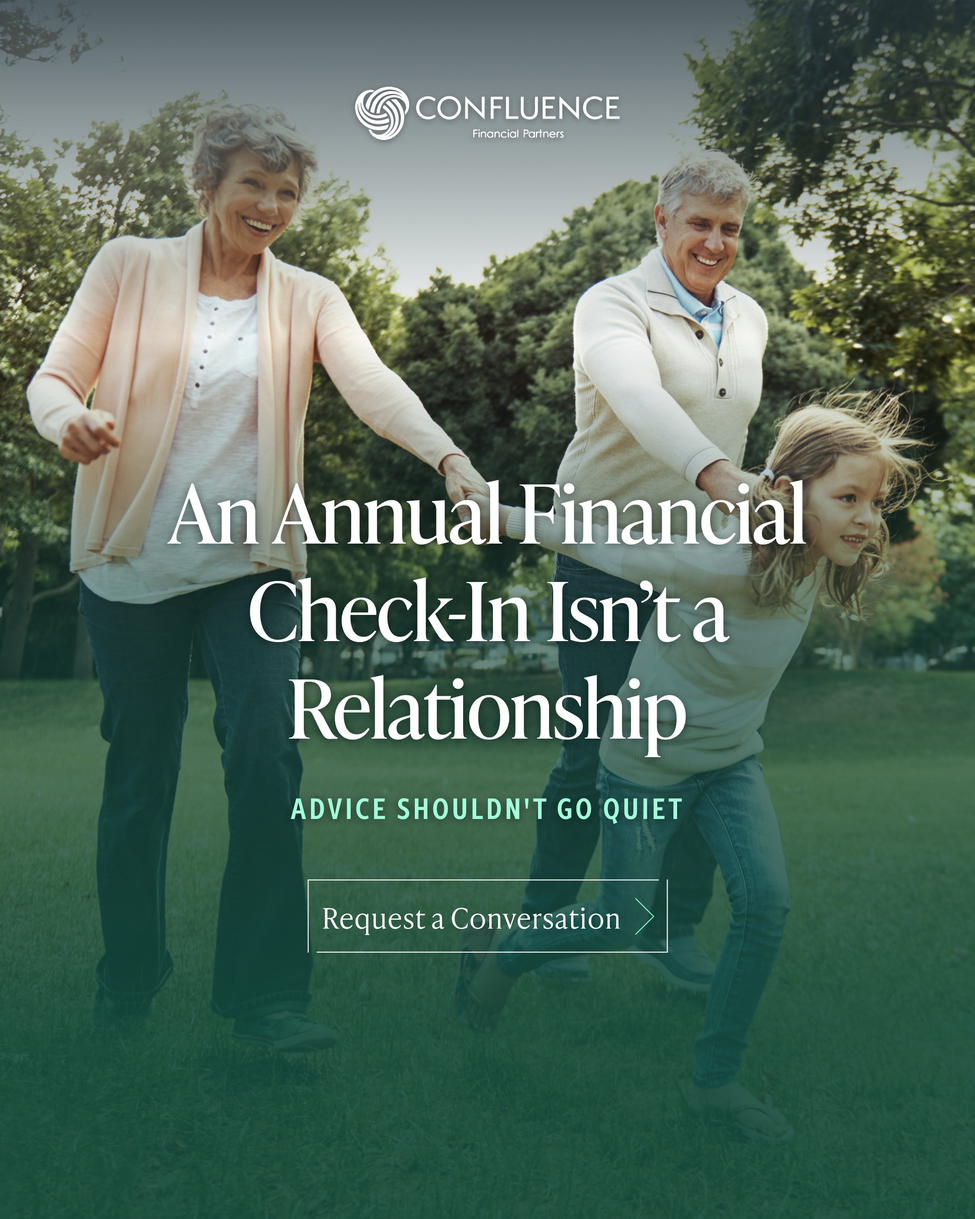
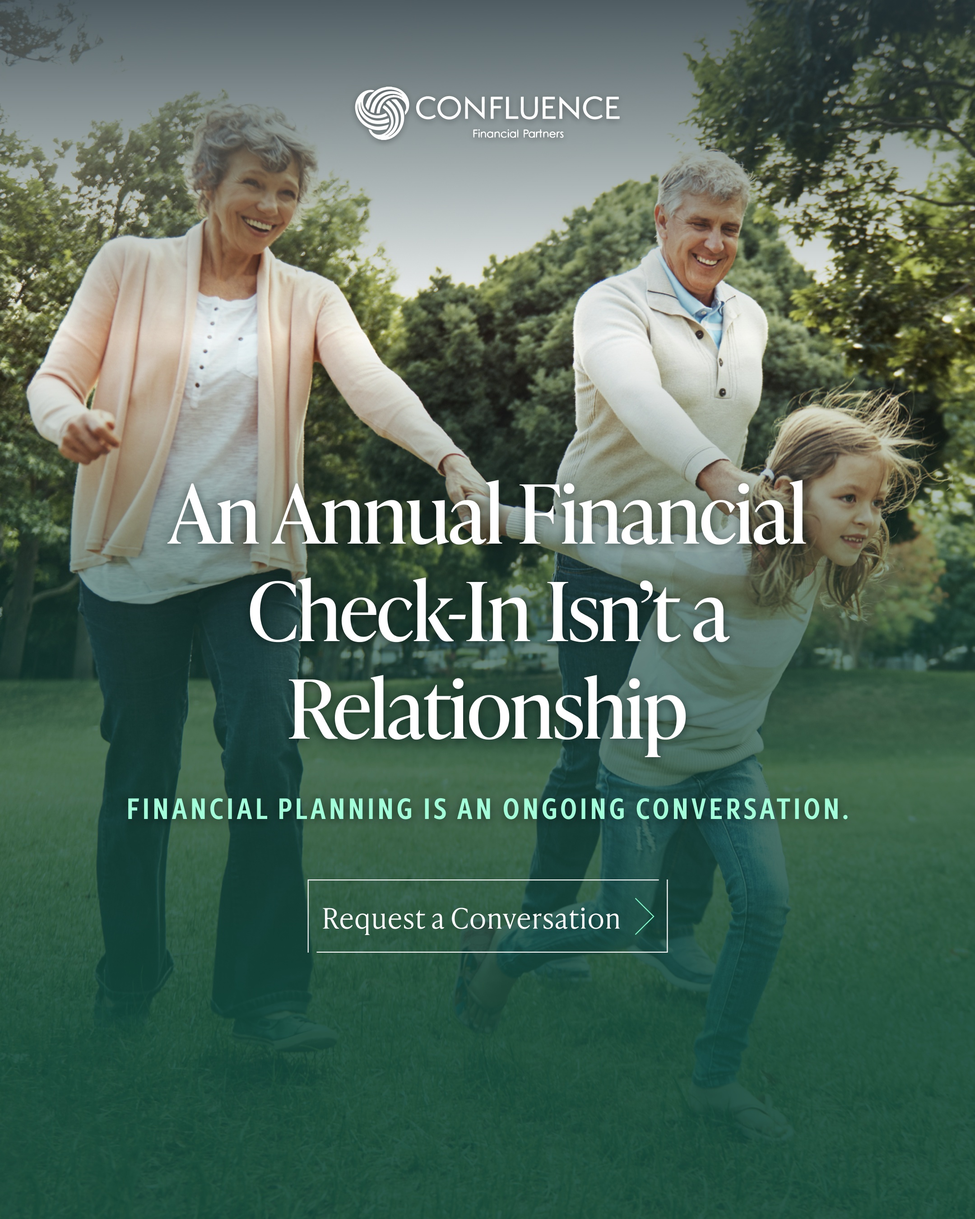
CFP vEdge: Ad 7 (Communication) eyebrow -> 'Financial planning is an ongoing conversation' (Katie edit)

Changed region(s): [[0.1241, 0.6533, 0.8685, 0.6844]]

diff --git a/confluence-fp-consultation-vedge/index.html b/confluence-fp-consultation-vedge/index.html
@@ -1205,7 +1205,7 @@ let _activeImageVersion = {};
 let _placementIdx = {};
 let _feedbackCache = {};
 const CAMPAIGN_ID = 'confluence-fp-consultation-vedge';
-const ASSET_V = '1787330831';  // cache-bust token, stamped at bake time
+const ASSET_V = '1787331175';  // cache-bust token, stamped at bake time
 
 // ── Utility ────────────────────────────────────────────────────────────────
 function esc(s) {

diff --git a/confluence-fp-consultation-vedge/IMAGE-TEXT-PUNCHLIST.md b/confluence-fp-consultation-vedge/IMAGE-TEXT-PUNCHLIST.md
@@ -13,7 +13,7 @@ Source: `feedback` table, campaign `confluence-fp-consultation-vedge`.
 | 4 | Standard | (no comment) | — | ✓ |
 | 5 | Proactive | Is Your Financial Advisor Proactive or Reactive? / WHY WAIT TO BE ASKED | headline → **"Is Your Financial Advisor Helping You Prepare for What's Next?"** · sub → **"Financial planning is about more than responding to change."** | ☐ |
 | 6 | Value | Your Advisor Charges a Fee. Do They Deliver the Value? / COST IS ONLY HALF OF IT | headline → **"Your Advisor Charges a Fee. Do You Understand the Services Behind It?"** · eyebrow → **"Cost Is Only Part of the Equation."** | ☐ |
-| 7 | Communication | An Annual Financial Check-In Isn't a Relationship / ADVICE SHOULDN'T GO QUIET | eyebrow → **"Financial planning is an ongoing conversation."** (Katie also floated headline "Financial planning isn't a one-time conversation." — confirm) | ☐ |
+| 7 | Communication | An Annual Financial Check-In Isn't a Relationship / ADVICE SHOULDN'T GO QUIET | eyebrow → **"Financial planning is an ongoing conversation."** | ✅ placed (output 99) |
 | 8 | Retirement | $5 Million Saved. Is It Enough for Your Retirement? / FROM BUILDING TO LIVING | headline → **"Is It Enough for the Retirement You Envision?"** · eyebrow → **"Retirement happens by design, not by default."** (drops the $ figure) | ☐ |
 | 9 | Legacy | A Legacy Without a Plan Is Just a Wish. / BY DESIGN, OR BY DEFAULT? | headline → **"A Legacy Takes More Than Assets Alone."** | ☐ |
 | 10 | Generational | Don't Just Build Your Legacy. Prepare Your Heirs. / MORE THAN THE MONEY | headline → **"Don't Just Build Your Legacy. Plan for the Next Generation."** | ☐ |
